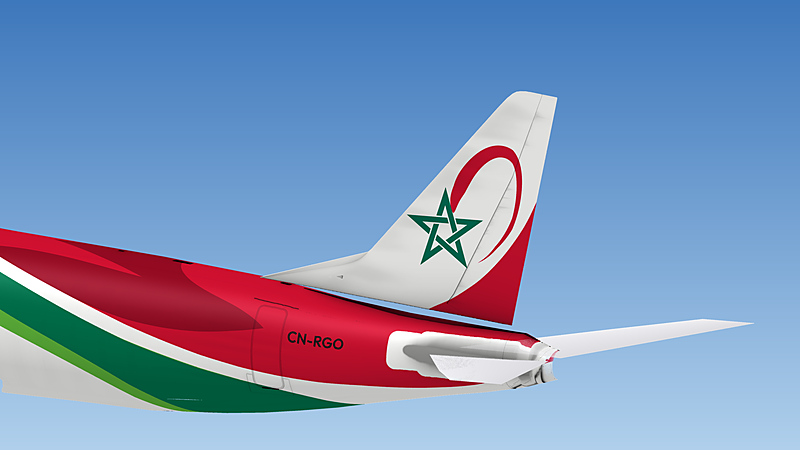
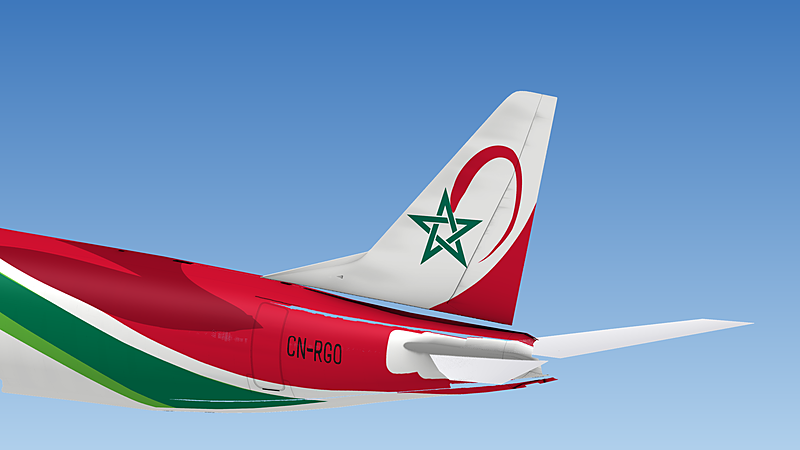
Royal Air Maroc E190 livery: red round the tail cone, true-proportion marks
Tail cone: the lower edge of the red no longer climbs back up behind the
stabiliser fairing (the trace had followed the fairing). Both photos show the
white belly strip tapering out under the cone at about station 1735, with
red wrapping the whole cone back to the APU; B5 now ends there and the edge
runs on at 180 deg.

Registration: set in Barlow Medium, a DIN-like face, slightly letter-spaced
and with the long thin dash painted on the jet, at 4.9:1 as measured in both
photos (it was Outfit, a wide geometric face, at about 5.6:1), and 68 px wide
as in photo 1.

Texture proportions: per metre the texture holds fewer texels round the
fuselage than along it, measured on the two doors the kit bakes in (L1 0.90,
aft door 0.985; the barrel from the E190's dimensions alone gives 0.92).
The registration, the flags and "EMBRAER 190" are now sized on the skin
with that ratio, so they keep their real shape in the sim.

Flags: the left flag was a third too small and slightly forward (16 px
against 24 px in photo 1, about half the L1 door's width). The right flag is
no longer a mirror of the left: there it sits just ahead of the smaller
service door, level with its top, as in the eye-level photo of that side.

Preview renderer: the tail-cone angle map steps between mesh lines and lies
flat across the darts, which left streaks and gaps in the renders; steps
are now ramped, the dart rows left out, and splats are 3 px.

Claude-Session: https://claude.ai/code/session_01AKynkLixakaggPB1GpUYWR

Changed region(s): [[0.0, 0.6533, 0.7188, 0.9333], [0.0, 0.56, 0.0625, 0.6533]]

diff --git a/livery/royal-air-maroc-e190/kit-tools/paint_fus.py b/livery/royal-air-maroc-e190/kit-tools/paint_fus.py
@@ -6,7 +6,7 @@ usage: paint_fus.py <livery tools dir> <fonts dir> <out dir>
 import math, os, sys
 sys.path.insert(0, os.path.dirname(os.path.abspath(__file__)))
 import numpy as np
-from PIL import Image, ImageDraw, ImageFilter
+from PIL import Image, ImageDraw, ImageFilter, ImageFont
 from scipy import ndimage
 from scipy.interpolate import splprep, splev
 
@@ -129,7 +129,7 @@ def edge_mixed(pts, key, after=None):
 E_B1 = edge_mixed(G.B1, 'B1', after=math.pi)
 E_B2 = edge_mixed(G.B2, 'B2', after=math.pi)
 E_B3 = edge_mixed(G.B3, 'B3', after=math.pi)
-E_B5 = edge_mixed(G.B5, 'B5')
+E_B5 = edge_mixed(G.B5, 'B5', after=math.pi)   # red wraps the tail cone to the APU
 # Belly line: the green stops above a white belly (first E190 photo; the same
 # scheme from under a 737). Traced off the photo like the other edges; the
 # dark green runs out to a point where it meets the pinstripe at ~1555.
@@ -313,14 +313,39 @@ def put(art, u_c, v_c, tw, th_, rot180):
     print('put', (x0, y0, a.width, a.height), 'rot' if rot180 else '')
 
 
-def stamp(art, cx, cy, w, ax_v, aspect=None, top=None, bottom=None, sides='LR'):
-    """Centred on photo (cx, cy) on the left side, keeping its proportions;
-    mirrored onto the right side rotated 180."""
+# The texture isn't square on the skin: per metre it holds a little fewer
+# texels round the fuselage than along it. Measured on the two doors, whose
+# outlines the kit bakes in at their true shape, against photo 1 (its camera
+# model puts both doors on their mesh angles; its length is foreshortened to
+# 0.935 of the height, from the E190's 36.24 m by 3.35 m):
+#   L1 door  45 x 103 px, 81 deg of girth -> 0.375 wide on the skin;
+#            187 x 450 texels -> 0.416: ratio 0.90
+#   aft door 42 x  99 px, 83 deg of girth -> 0.394; 160 x 400 texels -> 0.400:
+#            ratio 0.985
+# (the barrel from the jet's dimensions alone: 0.92). The marks are sized on
+# the skin with this ratio so they keep their real proportions.
+SKIN_X, SKIN_K = (304.5, 1477.0), (0.90, 0.985)
+
+
+def skin_ratio(cx, cy):
+    """Texels per metre round the fuselage over texels per metre along it,
+    at a left-side photo point."""
+    return float(np.interp(cx, SKIN_X, SKIN_K))
+
+
+def stamp(art, cx, cy, w, ax_v, aspect=None, top=None, bottom=None, sides='LR', skin=False):
+    """Centred on photo (cx, cy) on the left side, keeping its proportions
+    (on the skin with skin=True, else in texels); mirrored onto the right
+    side rotated 180."""
     u0, _ = to_tex(cx - w / 2, cy)
     u1, _ = to_tex(cx + w / 2, cy)
     uc, vc = to_tex(cx, cy)
     tw = u1 - u0
     th_ = tw / (aspect or art.width / art.height)
+    if skin:
+        k = skin_ratio(cx, cy)
+        th_ *= k
+        print(f'skin ratio at ({cx:.0f}, {cy:.0f}): {k:.3f}')
     if top is not None:
         vc = top + th_ / 2
     if bottom is not None:
@@ -329,12 +354,46 @@ def stamp(art, cx, cy, w, ax_v, aspect=None, top=None, bottom=None, sides='LR'):
         put(art, uc, vc, tw, th_, False)
     if 'R' in sides:
         put(art, uc, 2 * ax_v * 2 - vc, tw, th_, True)
+    return tw, th_
 
 
 en = E.words_layer(['Royal', 'Air', 'Maroc'], f'{FONTS}/outfit-latin-600-normal.woff', 600, G.RED)
 # the airline's own Arabic logotype, traced from the photo (kit-tools/trace_ar.py)
 ar_ = Image.open(f'{FONTS}/../artwork/ram_title_ar_logotype.png').convert('RGBA')
-reg = E.text_layer('CN-RGO', f'{FONTS}/outfit-latin-600-normal.woff', 300, REG_BLACK, pad=0)
+
+
+def reg_layer(text, font_path, px, fill, tracking=0.03, dash=0.40, ss=4):
+    """Registration as painted on the jet: a DIN-like face, slightly letter-
+    spaced, with a long thin dash about a letter wide. Cropped to the ink."""
+    font = ImageFont.truetype(font_path, px * ss)
+    probe = ImageDraw.Draw(Image.new('L', (1, 1)))
+    _, cap_top, _, base = probe.textbbox((0, 0), 'H', font=font)
+    bar = 0.12 * (base - cap_top)
+    W = int(sum(font.getlength(c) for c in text) + len(text) * (tracking + dash) * px * ss) + 4 * px
+    img = Image.new('L', (W, int(px * ss * 1.6)), 0)
+    d = ImageDraw.Draw(img)
+    x = px * ss * 0.2
+    for i, ch in enumerate(text):
+        if ch == '-':
+            mid = (cap_top + base) / 2
+            d.rectangle([x, mid - bar / 2, x + dash * px * ss, mid + bar / 2], fill=255)
+            x += dash * px * ss
+        else:
+            bb = probe.textbbox((0, 0), ch, font=font)
+            d.text((x - bb[0], 0), ch, font=font, fill=255)
+            x += bb[2] - bb[0]
+        if i < len(text) - 1:
+            x += tracking * px * ss
+    ys, xs = np.nonzero(np.asarray(img) > 8)
+    img = img.crop((xs.min(), ys.min(), xs.max() + 1, ys.max() + 1))
+    img = img.resize((img.width // ss, img.height // ss), Image.LANCZOS)
+    out = Image.new('RGBA', img.size, tuple(fill) + (0,))
+    out.putalpha(img)
+    return out
+
+
+reg = reg_layer('CN-RGO', f'{FONTS}/barlow-latin-500-normal.woff', 300, REG_BLACK)
+print('registration natural aspect %.2f' % (reg.width / reg.height))
 emb = E.text_layer('EMBRAER 190', f'{FONTS}/outfit-latin-600-normal.woff', 200, (30, 30, 30), pad=0)
 
 # forward window row, 8K: left V 378 +/- 36, right V 1616 +/- 36 (crown side is +)
@@ -358,9 +417,9 @@ ar_h = ar_w * ar_.height / ar_.width
 put(ar_, ar_u0 + ar_u1, WR_BELLY8 - 65 - ar_h / 2, ar_w, ar_h, True)
 
 rx, ry = G.REG['center']
-stamp(reg, rx, ry, G.REG['width'], AX_A)
+stamp(reg, rx, ry, G.REG['width'], AX_A, aspect=4.9, skin=True)   # 4.9:1 on the jet
 ec = G.EMBRAER_190['center']
-stamp(emb, ec[0], ec[1], G.EMBRAER_190['width'], AX_F)
+stamp(emb, ec[0], ec[1], G.EMBRAER_190['width'], AX_F, skin=True)
 
 # Moroccan flag: red field, green interlaced star
 fw = 600
@@ -369,7 +428,12 @@ star = E.woven_star(flag.size, fw / 2, flag.height / 2 + 6, flag.height * 0.36,
                     flag.height * 0.36 * 0.14, flag.height * 0.36 * 0.04)
 flag.paste(Image.new('RGBA', flag.size, (0, 98, 51, 255)), mask=star)
 fx0, fy0, fx1, fy1 = G.FLAG
-stamp(flag, (fx0 + fx1) / 2, (fy0 + fy1) / 2, fx1 - fx0, AX_F)
+fw8, fh8 = stamp(flag, (fx0 + fx1) / 2, (fy0 + fy1) / 2, fx1 - fx0, AX_F, sides='L', skin=True)  # 3:2 on the jet
+# Right side: not a mirror of the left. There the flag sits just ahead of the
+# smaller service door (4K: U 803-959, top edge V 1709.5), level with its top
+# and a third of a door width in front of it (eye-level photo of that side).
+R1_FWD, R1_TOP, R1_W = 803.0, 1709.5, 156.0
+put(flag, 2 * (R1_FWD - 0.32 * R1_W) - fw8 / 2, 2 * R1_TOP - fh8 / 2, fw8, fh8, True)
 
 paint[~mask8] = 1.0
 np.save(f'{OUT}/fus_paint8.npy', paint.astype(np.float16))

diff --git a/livery/royal-air-maroc-e190/tools/geometry.py b/livery/royal-air-maroc-e190/tools/geometry.py
@@ -50,11 +50,13 @@ B2 = [APEX, (960, 477.5), (1000, 490.5), (1040, 505.5), (1080, 520),
       (1320, 644), (1360, 665), (1420, 696)]
 # The light green reaches the crown until the thin white stripe takes over.
 B4 = [(1018, 462), (1030, 476), (1040, 482.5)]
-# B5: front/lower edge of the red, which runs flat back to the tail.
+# B5: front/lower edge of the red. Behind the rear door it runs flat back
+# over a white belly strip that tapers out under the tail cone at ~1735;
+# from there the red wraps the whole cone back to the APU (both photos).
 B5 = [(1062, 466), (1080, 485), (1160, 510), (1240, 532), (1280, 546),
       (1320, 568.5), (1360, 580), (1400, 591), (1440, 601), (1480, 609),
-      (1520, 614), (1560, 618), (1600, 620), (1640, 621), (1680, 620),
-      (1720, 617), (1760, 610), (1800, 601), (1840, 590), (1880, 580)]
+      (1520, 614), (1560, 618), (1600, 620), (1640, 621.5), (1680, 622.5),
+      (1710, 623.5), (1735, 626)]
 # White fin over the red: the curve from the fin root up to the trailing edge.
 FIN_RED = [(1410, 504), (1440, 509), (1480, 514), (1520, 521), (1560, 527),
            (1600, 533), (1640, 537), (1660, 533), (1680, 524), (1700, 515),
@@ -86,10 +88,11 @@ COCKPIT = [[(102, 463), (128, 447), (166, 435), (178, 435), (161, 458)],
 # Titles and marks: centre, width (photo px, unrotated), slope in degrees.
 TITLE_EN = dict(center=(555, 507), width=262, angle=4.2)
 TITLE_AR = dict(center=(597, 452), width=348, height=41, angle=3.8)
-REG = dict(center=(1547, 569), width=72, angle=4.0)
+REG = dict(center=(1547, 569), width=68, angle=4.0)
 # Tail logo canvas (4096 px) is centred here, at this many photo px across.
 LOGO = dict(center=(1727.5, 396.5), size=182.5)
-FLAG = (246, 431, 262, 442)
+# The flag's red field, about half the width of the L1 door behind it.
+FLAG = (252.5, 432.5, 276.5, 445.5)
 
 
 def catmull_rom(pts, samples=24):

diff --git a/livery/royal-air-maroc-e190/kit-tools/render_thumb.py b/livery/royal-air-maroc-e190/kit-tools/render_thumb.py
@@ -25,7 +25,20 @@ mask4 = np.asarray(Image.open('layers/fus__paintmask.png')) > 127
 tex = np.asarray(Image.open(fus_png).convert('RGB').resize((4096, 4096), Image.BOX))
 V4 = np.arange(4096) + 0.5
 U4 = np.arange(4096) + 0.5
-vv, uu = np.nonzero(mask4 & np.isfinite(th))
+# On the tail cone the angle map is followed from mesh line to mesh line: it
+# steps where the lines' spacing changes and lies flat across the darts. For
+# the picture, ramp the steps (a short mask-normalised blur down each column)
+# and leave out the flat dart rows, so no gaps or smears show.
+from scipy import ndimage
+ok = mask4 & np.isfinite(th)
+cone = np.zeros_like(ok); cone[int(F.SPLIT_V):, 1890:] = True
+w8 = ok.astype(np.float32)
+th0 = np.where(ok, th, 0).astype(np.float32)
+ths = ndimage.uniform_filter1d(th0, 25, axis=0) / np.maximum(ndimage.uniform_filter1d(w8, 25, axis=0), 1e-6)
+flat = cone & ok & (ndimage.uniform_filter1d(np.abs(np.gradient(th0, axis=0)), 5, axis=0) < 4e-4)
+flat = ndimage.binary_dilation(flat, np.ones((7, 1), bool))
+th = np.where(cone & ok, ths, th)
+vv, uu = np.nonzero(ok & ~flat)
 aft = V4[vv] >= F.SPLIT_V
 x = np.where(aft, F.u_to_x(U4[uu], True), F.u_to_x(U4[uu], False))
 right = np.where(aft, V4[vv] > F.AX_A, V4[vv] > F.AX_F)
@@ -117,8 +130,9 @@ vis = two_sided | ((NR @ cam) > -0.02)
 P, C, d, px, py = P[vis], C[vis], d[vis], px[vis], py[vis]
 order = np.argsort(d)
 img = np.zeros((H, W * S, 4), np.uint8)
-for dx in (0, 1):
-    for dy in (0, 1):
+# 3x3 splats: on the tail cone some texel rows land ~2.7 px apart
+for dx in (-1, 0, 1):
+    for dy in (-1, 0, 1):
         iy, ix = np.clip(py[order] + dy, 0, H - 1), np.clip(px[order] + dx, 0, W * S - 1)
         img[iy, ix, :3] = C[order]
         img[iy, ix, 3] = 255

diff --git a/livery/royal-air-maroc-e190/README.md b/livery/royal-air-maroc-e190/README.md
@@ -43,4 +43,5 @@ fuselage comes from the model's own lengthwise mesh lines, followed through
 the kit's wireframe (`stringers.py`); each fin side uses a five-point
 piecewise-affine map. `dump.py` and `tree.py` inspect a PSD's layers.
 
-Fonts: Outfit and Aref Ruqaa, both SIL Open Font License (see `fonts/`).
+Fonts: Outfit, Barlow (the registration) and Aref Ruqaa, all SIL Open Font
+License (see `fonts/`).
